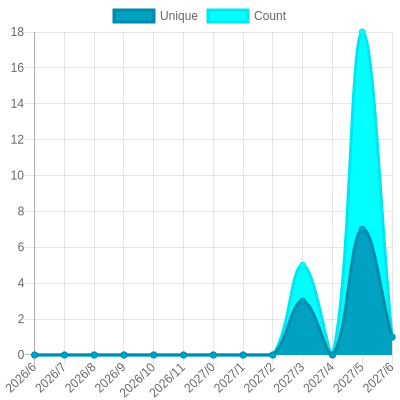
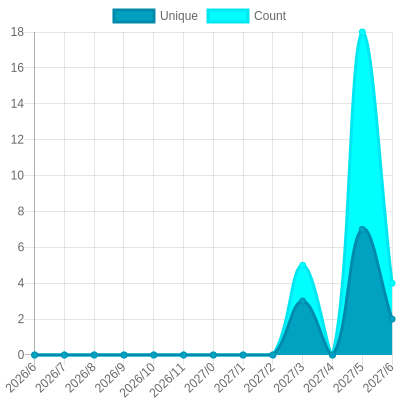
Update views

Changed region(s): [[0.93, 0.18, 0.99, 0.87], [0.9, 0.57, 0.93, 0.6]]

diff --git a/readme/801326864/year.md b/readme/801326864/year.md
@@ -23,10 +23,10 @@
 			<code>2026/7/1</code>
 		</td>
 		<td>
-			<code>1</code>
+			<code>2</code>
 		</td>
 		<td>
-			<code>1</code>
+			<code>4</code>
 		</td>
 	</tr>
 	<tr>
@@ -164,7 +164,7 @@
 </table>
 
 </details>
-<small><i>Last updated on 2026/7/6 2:41 AM UTC</i></small>
+<small><i>Last updated on 2026/7/6 10:07 AM UTC</i></small>
 
 ## ✂Copy and 📋 Paste
 ### SVG Badge

diff --git a/README.md b/README.md
@@ -69,7 +69,7 @@ The project created and maintained by [gayanvoice](https://github.com/gayanvoice
 	</tr>
 </table>
 
-<small><i>Last updated on 2026/7/6 2:42 AM UTC</i></small>
+<small><i>Last updated on 2026/7/6 10:08 AM UTC</i></small>
 
 ## ✂Copy and 📋 Paste
 ### Total Views Badge

diff --git a/readme/1011849454/year.md b/readme/1011849454/year.md
@@ -164,7 +164,7 @@
 </table>
 
 </details>
-<small><i>Last updated on 2026/7/6 2:42 AM UTC</i></small>
+<small><i>Last updated on 2026/7/6 10:08 AM UTC</i></small>
 
 ## ✂Copy and 📋 Paste
 ### SVG Badge

diff --git a/readme/792923366/year.md b/readme/792923366/year.md
@@ -164,7 +164,7 @@
 </table>
 
 </details>
-<small><i>Last updated on 2026/7/6 2:41 AM UTC</i></small>
+<small><i>Last updated on 2026/7/6 10:07 AM UTC</i></small>
 
 ## ✂Copy and 📋 Paste
 ### SVG Badge
